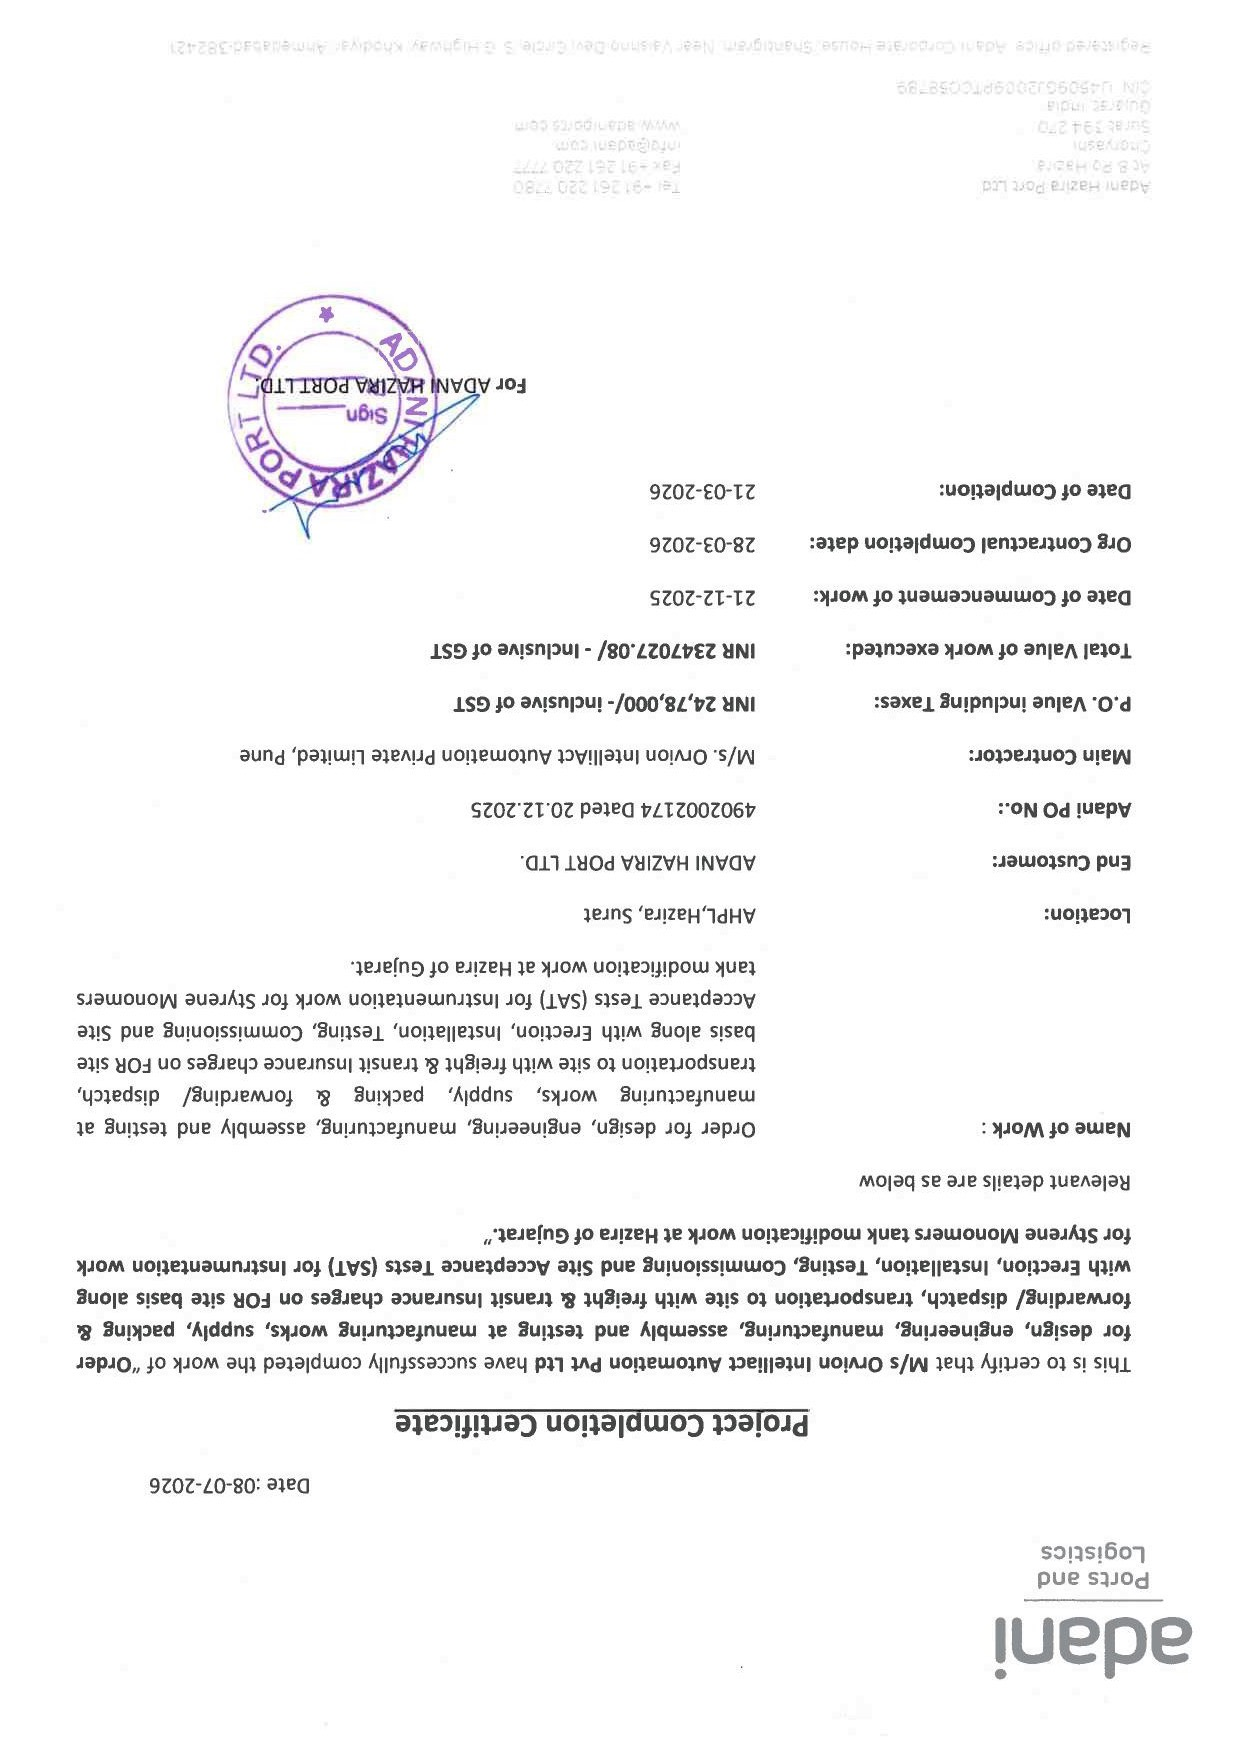
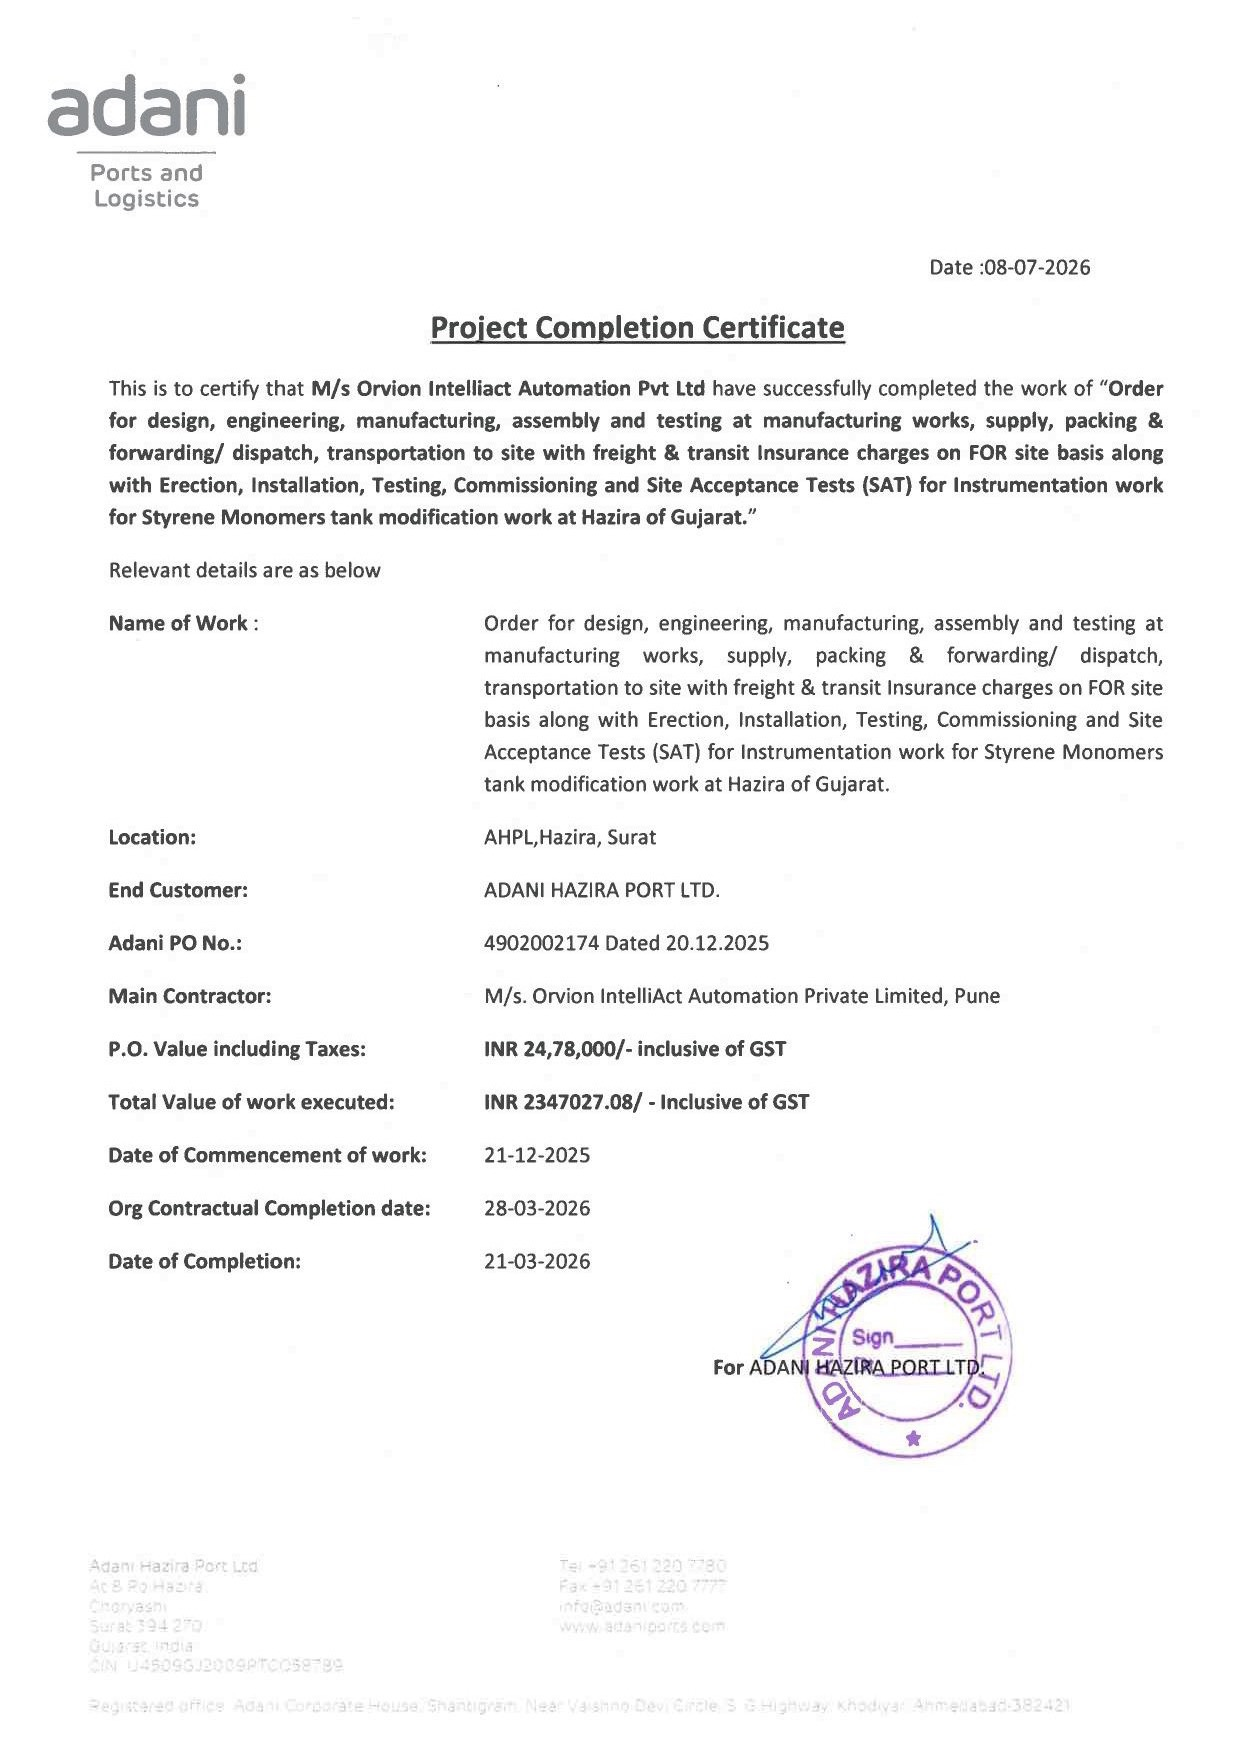
Rotate certificate 180 degrees and update title to Adani Hazira Port

diff --git a/lib/company-data.js b/lib/company-data.js
@@ -217,7 +217,7 @@ export const companyPages = [
           "items": []
         },
         {
-          "title": "Project Completion Certificate (4902002174)",
+          "title": "Adani Hazira Port",
           "text": "Certificate of successful project completion for contract 4902002174.",
           "image": "/images/projects/completion-certificate-4902002174-v2.jpg",
           "items": []
